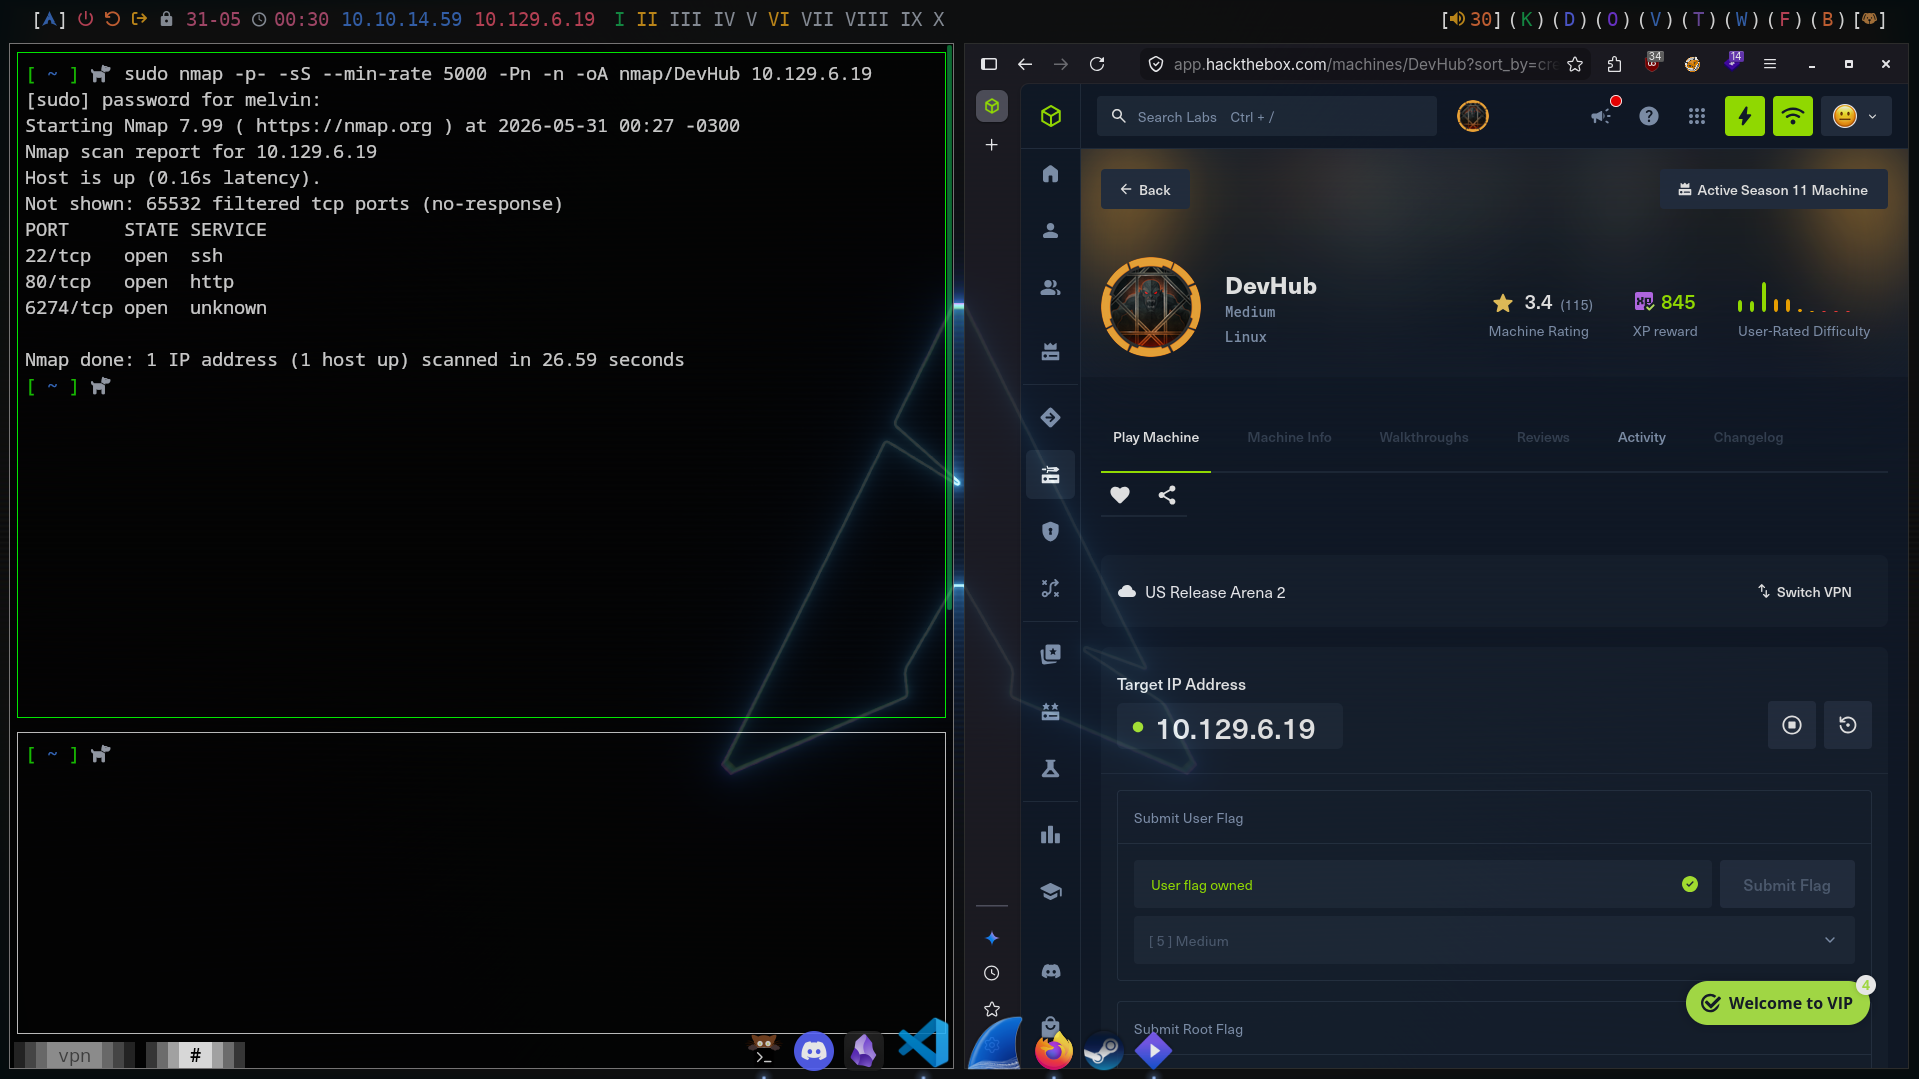
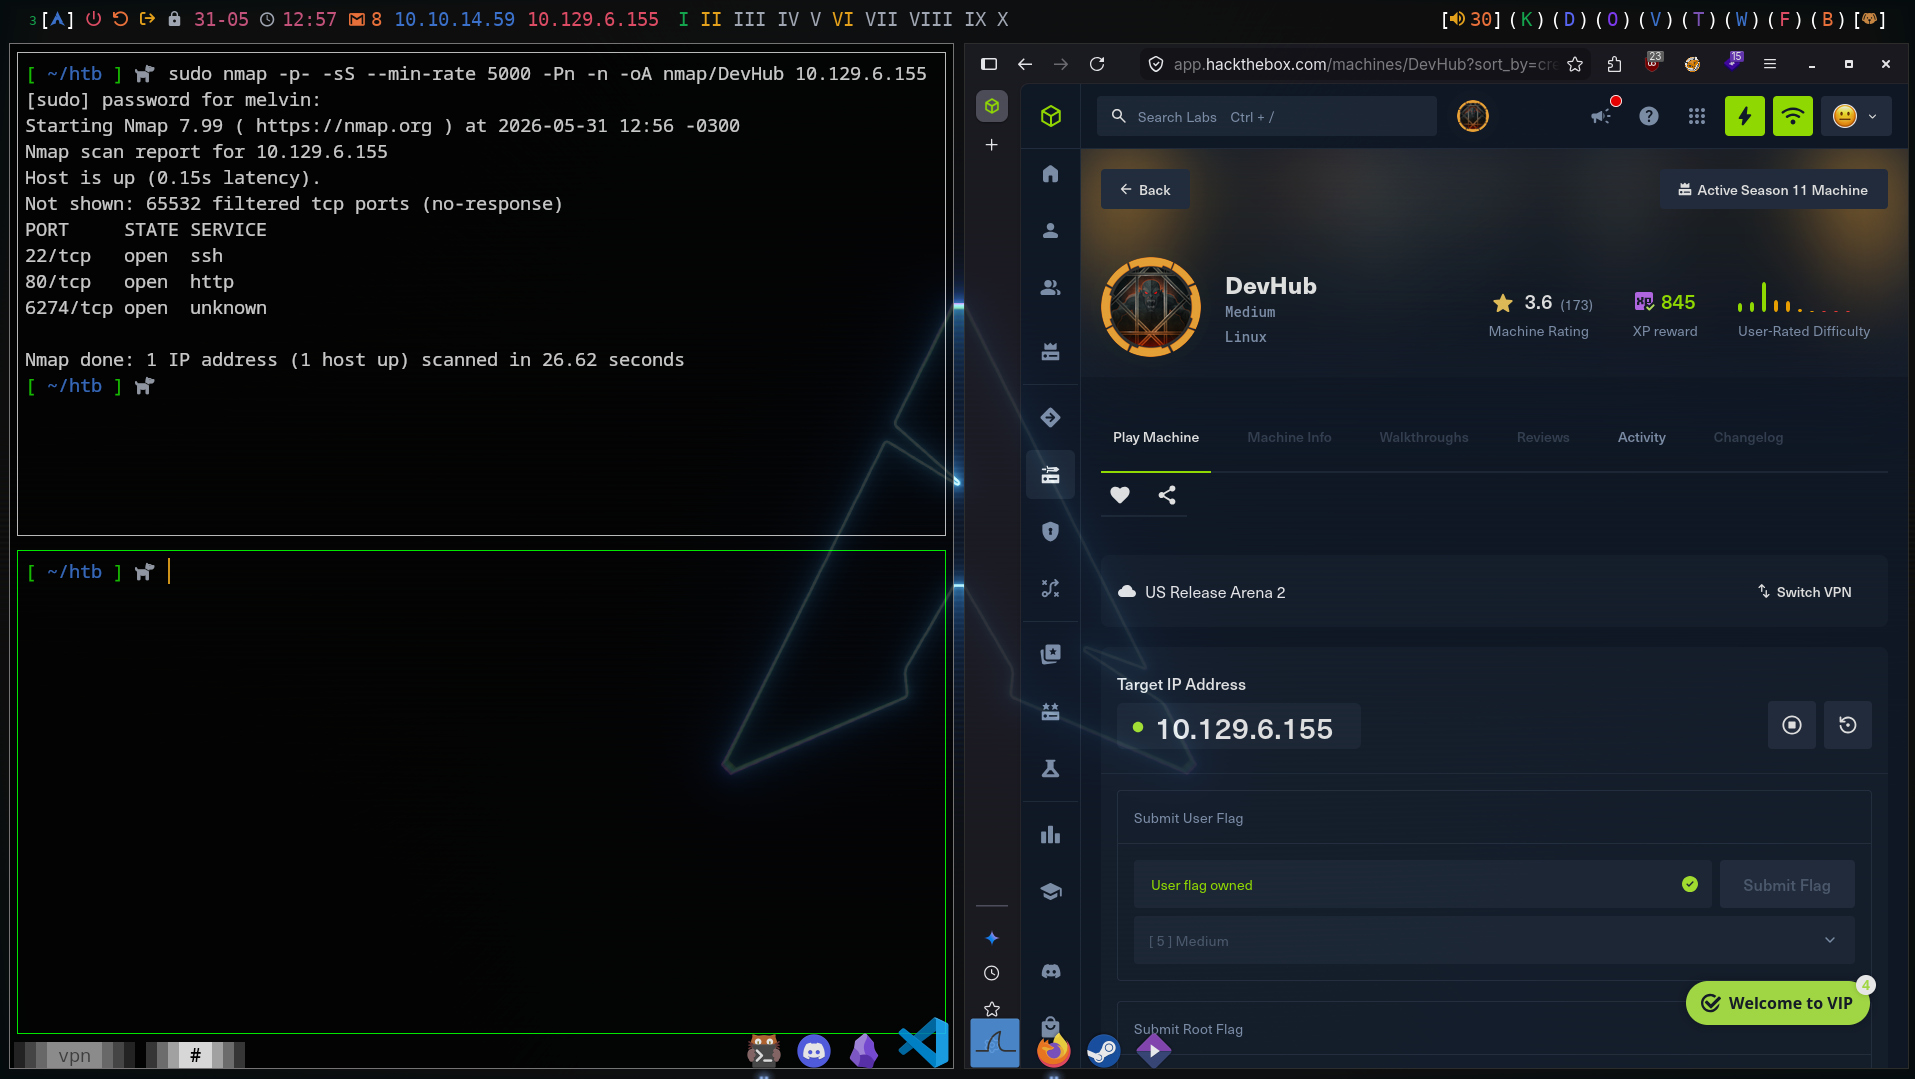
update

diff --git a/src/content/posts/setup/config/config.md b/src/content/posts/setup/config/config.md
@@ -933,7 +933,7 @@ pseudo-transparency = false
 wm-restack = bspwm
 enable-struts = true
 background = #00000000
-modules-left = updates shutdown reboot logout lock date vpn target desk
+modules-left = updates shutdown reboot logout lock date gmail vpn target desk
 modules-right = audio kitty discord obsidian vsc tor wire fire burp dog
 width = 98%
 offset-x = 1%
@@ -995,6 +995,14 @@ date = %d-%m%
 date-alt = %d-%m-%Y%
 label = ${env:MAIN_DATETIME_LABEL}
 label-padding = 3pt
+
+[module/gmail]
+type = custom/script
+exec = python3 $HOME/.config/polybar/scripts/gmail.py
+interval = 60
+label-foreground = ${colors.orange}
+label-padding = 3pt
+click-left = "output=$(python3 $HOME/.config/polybar/scripts/gmail.py); if [[ ! $output =~ (0|Off|Error)$ ]]; then firefox https://mail.google.com > /dev/null 2>&1 & disown; fi"
 
 [module/vpn]
 type = custom/script
@@ -1183,6 +1191,50 @@ if [ "$IFACE" = "tun0" ]; then
 else
   echo ""
 fi
+```
+
+### gmail.py
+
+Activar la verificación en 2 pasos en la cuenta de Google.
+
+En la cuenta de Google buscar `Contraseñas de aplicaciones` y en `Nombre de la app` crear un nombre para identificar el script. En la variable `PASSWORD` copiar la `contraseña de la aplicación generada` con el siguiente formato `cuca iksn tyzb gabf`.
+
+Agregar email a la variable `EMAIL`.
+
+```bash
+import imaplib
+import socket
+
+EMAIL = ""
+PASSWORD = ""
+ICON = ""
+
+try:
+    M = imaplib.IMAP4_SSL("imap.gmail.com", 993, timeout=5)
+    M.login(EMAIL, PASSWORD)
+
+    status, select_data = M.select("INBOX", readonly=True)
+
+    if status == 'OK':
+        status, search_data = M.search(None, 'UNSEEN')
+
+        if status == 'OK':
+            ids_bytes = search_data[0]
+            if ids_bytes:
+                count = len(ids_bytes.split())
+                print(f"{ICON} {count}")
+            else:
+                print(f"{ICON} 0")
+        else:
+            print(f"{ICON} Error")
+    else:
+        print(f"{ICON} Error")
+
+    M.close()
+    M.logout()
+
+except (imaplib.IMAP4.error, socket.timeout, Exception):
+    print(f"{ICON} Off")
 ```
 
 ## plank

diff --git a/src/content/posts/setup.md b/src/content/posts/setup.md
@@ -84,7 +84,7 @@ sudo pacman -S base-devel bat bluez bluez-utils feh firefox git gtk3 lsd neovim 
 mkdir -p $HOME/.config/{kitty,nvim,polybar,picom,colors,gtk-3.0,vpn,dunst,plank}
 mkdir $HOME/.config/bspwm/scripts
 mkdir $HOME/.config/polybar/scripts
-touch $HOME/.config/polybar/scripts/{target.sh,target.txt,vpn.sh}
+touch $HOME/.config/polybar/scripts/{target.sh,target.txt,vpn.sh,gmail.py}
 touch $HOME/.config/bspwm/scripts/bspwm_resize
 touch $HOME/.config/polybar/{launch.sh,env.sh}
 touch $HOME/.config/colors/{colors.ini,colors.sh,colors.py}
@@ -94,7 +94,7 @@ chmod +x $HOME/.config/plank/launch.sh
 touch $HOME/.config/kitty/kitty.conf
 touch $HOME/.config/picom/picom.conf
 touch $HOME/.config/dunst/dunstrc
-chmod +x $HOME/.config/polybar/scripts/{target.sh,vpn.sh}
+chmod +x $HOME/.config/polybar/scripts/{target.sh,vpn.sh,gmail.py}
 chmod +x $HOME/.config/bspwm/scripts/bspwm_resize
 ```
 
